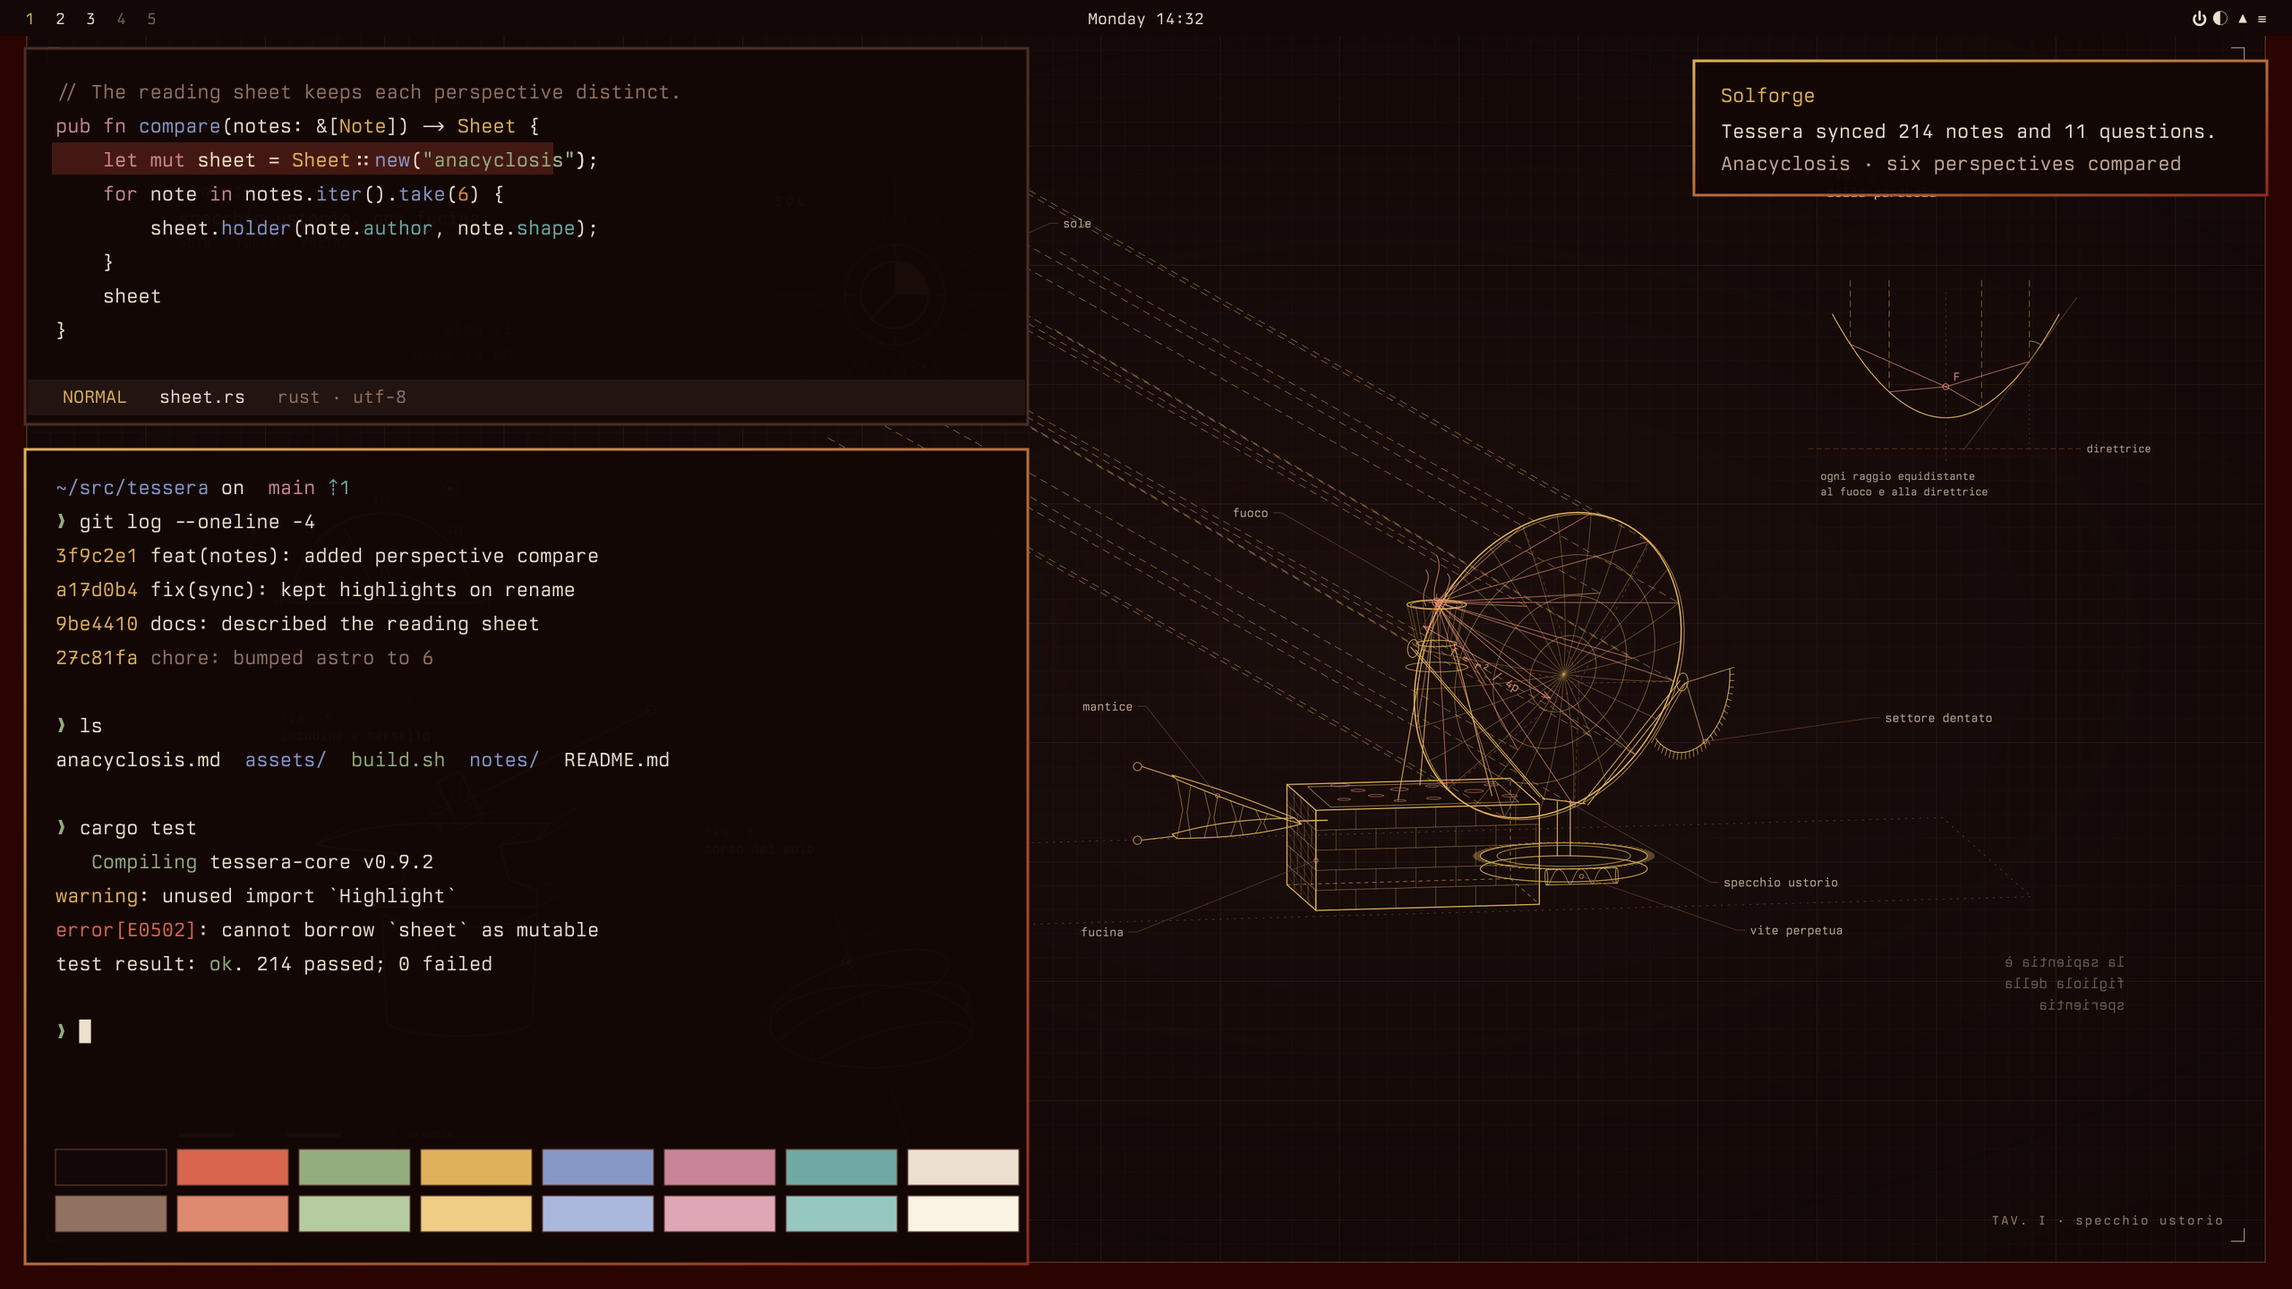
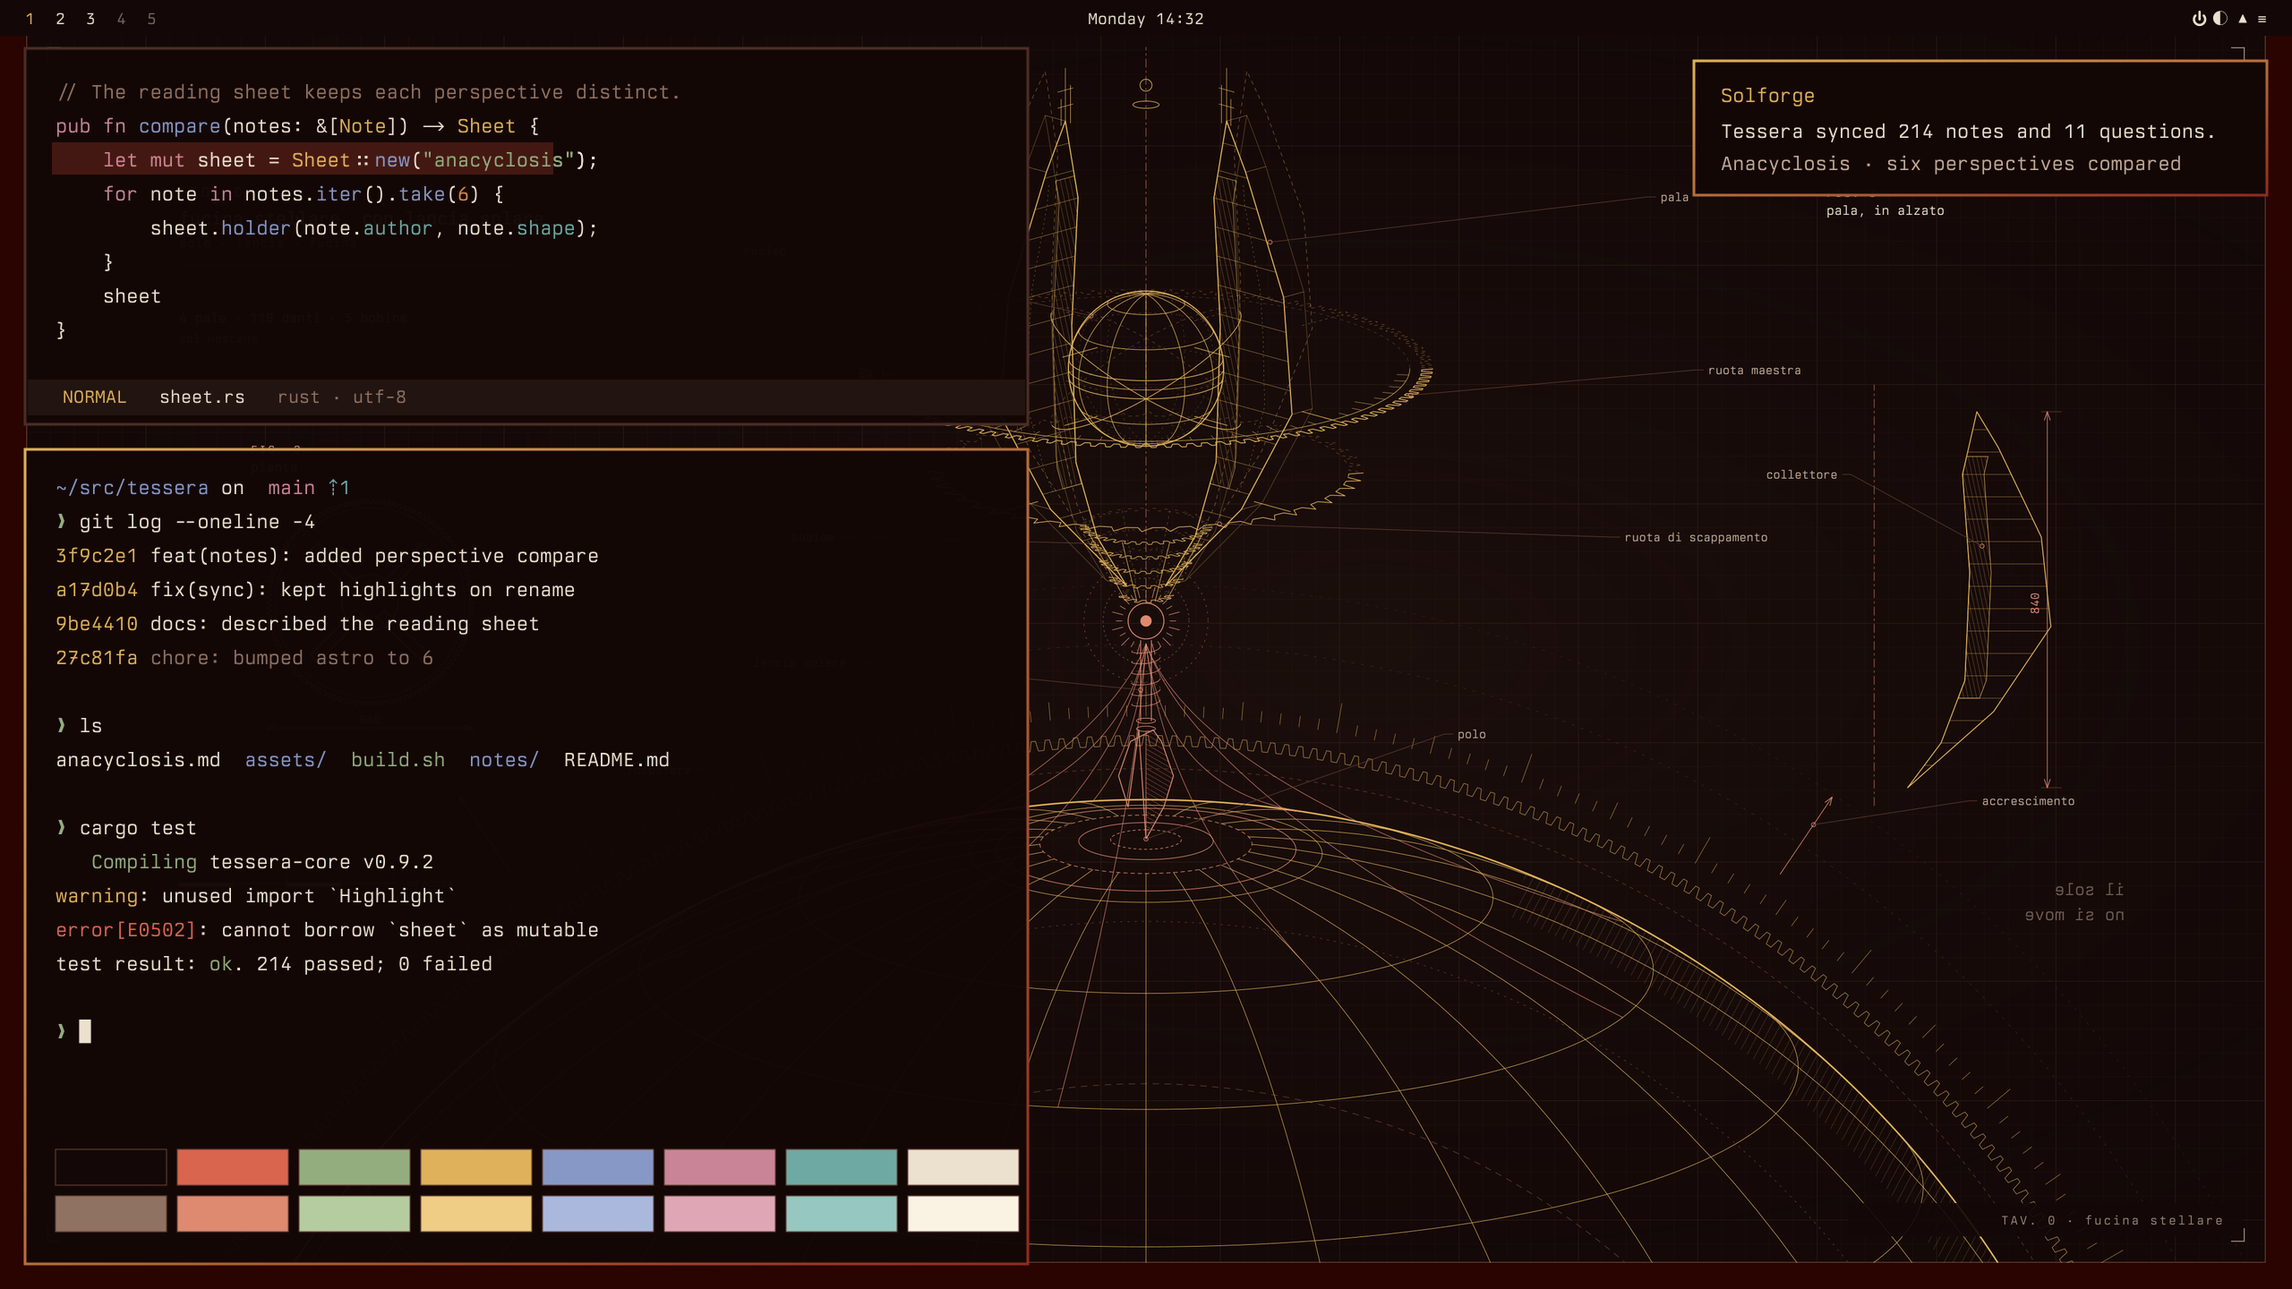
feat(backgrounds): added star forge plate as the first background
- Drew a wireframe star forge on the sun's axis driving a solar lance.
- Set the sun's cap across the bottom third with a toothed limb ring.
- Added sphere graticule and hidden-run helpers for wire spheres.
- Made the forge plate the theme preview and default background.

diff --git a/drawings.py b/drawings.py
@@ -1250,7 +1250,307 @@ def plate_oculus(s: Sheet):
     s.scale_bar(300, 1900)
 
 
+# ---------------------------------------------------------------- plate 0: fucina stellare
+
+def split_runs(pts, front):
+    """Split a 3D polyline into the runs where `front(p)` holds and the runs where it does not."""
+    near, far, cur, side = [], [], [], None
+    for p in pts:
+        here = front(p)
+        if side is not None and here != side:
+            (near if side else far).append(cur + [p])
+            cur = []
+        cur.append(p)
+        side = here
+    if len(cur) > 1:
+        (near if side else far).append(cur)
+    return near, far
+
+
+def draw_runs(s: Sheet, cam, pts, front, role="gilt", width=1.2, far=("5 7", 0.4), opacity=1.0):
+    """A 3D polyline, solid where visible and dashed (or dropped, with far=None) where hidden."""
+    near, back = split_runs(pts, front)
+    for run in near:
+        s.poly3(cam, run, role, width, None, opacity)
+    if far:
+        for run in back:
+            s.poly3(cam, run, role, width * 0.7, far[0], far[1] * opacity)
+
+
+def facing_from(cam, c):
+    """Visibility test for points on a sphere centred at c: the hemisphere toward the viewer."""
+    return lambda p: cam.rot(sub(p, c))[2] >= 0
+
+
+def wire_sphere(s: Sheet, cam, c, r, lats, lons, role="gilt", width=1.0, far=None, lat_max=90):
+    """Latitude and longitude lines on a sphere; the far side is dropped unless `far` is given."""
+    front = facing_from(cam, c)
+    for a in lats:
+        t = math.radians(a)
+        draw_runs(s, cam, circle3d(add(c, (0, r * math.sin(t), 0)), (0, 1, 0), r * math.cos(t), 180), front, role, width, far)
+    for lon in lons:
+        g = math.radians(lon)
+        pts = [add(c, (r * math.cos(math.radians(a)) * math.cos(g), r * math.sin(math.radians(a)),
+                       r * math.cos(math.radians(a)) * math.sin(g))) for a in range(-90, lat_max + 1, 2)]
+        draw_runs(s, cam, pts, front, role, width, far)
+
+
+def plate_fucina(s: Sheet):
+    """A star forge of vanes and wheels, driving a solar lance into the sun it is building."""
+    R = 1700
+    cam = Cam(1920, 3040, 1.0, yaw=0, pitch=16)
+    sx, sy = cam((0, 0, 0))
+
+    def outside(p):
+        """Points off the sun's surface: hidden only when the sun stands between them and the eye."""
+        q = cam.rot(p)
+        return q[0] ** 2 + q[1] ** 2 >= R * R or q[2] >= 0
+
+    def flat(pts2, y):
+        return [(x, y, z) for x, z in pts2]
+
+    def axis_front(y):
+        return lambda p: cam.rot((p[0], 0, p[2]))[2] >= 0
+
+    # The sun, clipped to the sheet: growth shells, a toothed ring at its limb, corona ticks.
+    i = s.inset
+    cid = s.clip(f'<rect x="{i}" y="{i}" width="{W - 2 * i}" height="{H - 2 * i}"/>')
+    s.add(f'<g clip-path="url(#{cid})">')
+    for dr, op in ((360, 0.3), (260, 0.45)):
+        s.circle(sx, sy, R + dr, "line", 1.0, "4 12", op)
+    s.path(gear_path(sx, sy, 480, 7.5, 0.0)[0], "gilt", 1.0, None, 0.75)
+    s.circle(sx, sy, R + 52, "line", 0.9, "6 8")
+    for k in range(360):
+        a = math.radians(k)
+        r1 = R + (190 if k % 10 == 0 else 170 if k % 5 == 0 else 158)
+        s.line(sx + (R + 140) * math.cos(a), sy + (R + 140) * math.sin(a), sx + r1 * math.cos(a), sy + r1 * math.sin(a),
+               "gilt", 0.9, None, 0.7)
+    for ang in (236, 304):
+        a = math.radians(ang)
+        ux, uy = math.cos(a), math.sin(a)
+        s.line(sx + (R + 200) * ux, sy + (R + 200) * uy, sx + (R + 356) * ux, sy + (R + 356) * uy, "rubric", 1.1)
+        s.arrow(sx + (R + 356) * ux, sy + (R + 356) * uy, ux, uy)
+
+    # Limb shading, hatched as Leonardo shaded a sphere's turning edge.
+    for a0, a1, hang in ((196, 248, 62), (292, 344, 118)):
+        outer = [(sx + R * math.cos(math.radians(a)), sy + R * math.sin(math.radians(a))) for a in range(a0, a1 + 1, 2)]
+        inner = [(sx + R * 0.955 * math.cos(math.radians(a)), sy + R * 0.955 * math.sin(math.radians(a)))
+                 for a in range(a1, a0 - 1, -2)]
+        s.hatch(outer + inner, hang, 13, "gilt", 0.8, 0.28)
+
+    # Inner shells seen through the surface, the graticule, and ripples where the lance strikes.
+    s.circle(sx, sy, R * 0.72, "line", 1.0, "10 10")
+    s.circle(sx, sy, R * 0.88, "line", 0.9, "3 9")
+    wire_sphere(s, cam, (0, 0, 0), R, range(30, 81, 10), range(0, 360, 15), "gilt", 0.9, lat_max=84)
+    for a, dash in ((81.5, None), (84, "6 6"), (86.2, None), (88, "4 5")):
+        t = math.radians(a)
+        s.poly3(cam, circle3d((0, R * math.sin(t), 0), (0, 1, 0), R * math.cos(t), 120), "rubric", 1.2, dash, 0.9)
+    s.circle(sx, sy, R, "gilt", 2.6)
+    s.add("</g>")
+
+    # The forge stands on the sun's axis: four vanes, a core sphere, two wheels, a coiled nozzle.
+    Ye, Yc, Yw, rc = 2080, 2520, 2340, 130
+    RW, RX = 472, 340
+    C = (0.0, float(Yc), 0.0)
+    OUT = [(70, 2160), (250, 2330), (370, 2520), (350, 2720), (260, 2920), (215, 3000)]
+    INN = [(70, 2160), (140, 2260), (190, 2400), (200, 2640), (185, 2860), (215, 3000)]
+    Y0, Y1, TIP = OUT[0][1], OUT[-1][1], OUT[-1][0]
+    STRIP, PANELS = list(range(2360, 2901, 20)), range(Y0 + 50, Y1 - 9, 50)
+    profile = OUT + INN[::-1][1:-1]
+
+    def along(prof, y):
+        for (r0, y0), (r1, y1) in zip(prof, prof[1:]):
+            if y0 <= y <= y1:
+                return r0 + (r1 - r0) * (y - y0) / (y1 - y0)
+        raise ValueError(y)
+
+    thetas = [math.radians(a) for a in (45, 135, 225, 315)]
+
+    def radial(theta):
+        return (math.cos(theta), 0.0, math.sin(theta)), (-math.sin(theta), 0.0, math.cos(theta))
+
+    def vane(theta, front):
+        d, t = radial(theta)
+        side = 1 if cam.facing(t) else -1
+
+        def P(r, y, k=side):
+            return add(add(mul(d, r), mul(t, 24 * k)), (0.0, y, 0.0))
+
+        face = [P(r, y) for r, y in profile]
+        if not front:
+            s.poly3(cam, face, "gilt", 1.0, "6 7", 0.5, closed=True)
+            return
+        s.poly3(cam, [P(r, y, -side) for r, y in profile], "gilt", 0.8, None, 0.45, closed=True)
+        for r, y in OUT:
+            s.line3(cam, P(r, y), P(r, y, -side), "gilt", 0.8, None, 0.6)
+        s.poly3(cam, face, "gilt", 1.8, closed=True)
+        strip = [P(along(INN, y), y) for y in STRIP] + [P(along(INN, y) + 45, y) for y in reversed(STRIP)]
+        s.hatch([cam(q) for q in strip], 78, 8, "gilt", 0.7, 0.45)
+        s.poly3(cam, strip, "gilt", 0.9, None, 0.8, closed=True)
+        for y in PANELS:
+            s.line3(cam, P(along(INN, y), y), P(along(OUT, y), y), "gilt", 0.8, None, 0.65)
+        s.poly3(cam, [P((along(INN, y) + 45 + along(OUT, y)) / 2, y) for y in STRIP], "gilt", 0.7, "2 6", 0.7)
+        for dr, h in ((-12, 60), (0, 92), (10, 40)):
+            s.line3(cam, P(TIP + dr, Y1 - 6), P(TIP + dr, Y1 + h), "gilt", 0.9)
+        for h in (26, 54):
+            s.line3(cam, P(TIP - 18, Y1 + h), P(TIP + 18, Y1 + h), "gilt", 0.8)
+
+    for th in thetas:
+        if not cam.facing(radial(th)[0]):
+            vane(th, False)
+
+    # Mast and finial.
+    s.line3(cam, (0, Ye + 30, 0), (0, Y1 + 80, 0), "rubric", 1.0, "14 6 3 6", 0.8)
+    s.poly3(cam, circle3d((0, Y1 - 20, 0), (0, 1, 0), 22, 36), "gilt", 1.1)
+    s.circle(*cam((0, Y1 + 14, 0)), 10, "gilt", 1.2)
+
+    # Core sphere with its seam and two armillary rings.
+    wire_sphere(s, cam, C, rc, range(-60, 61, 30), range(0, 360, 30), "gilt", 1.0, far=("3 6", 0.35))
+    core_front = facing_from(cam, C)
+    for a in (-7, 7):
+        t = math.radians(a)
+        draw_runs(s, cam, circle3d(add(C, (0, rc * math.sin(t), 0)), (0, 1, 0), rc * math.cos(t), 120), core_front,
+                  "gilt", 1.3, None)
+    s.circle(*cam(C), rc, "gilt", 1.8)
+    for n in ((0.5, 0.866, 0.0), (-0.5, 0.866, 0.0)):
+        draw_runs(s, cam, circle3d(C, n, 184, 120), core_front, "gilt", 1.2)
+
+    # Struts from core to vanes, and from vanes out to the two wheels.
+    for th in thetas:
+        d, _ = radial(th)
+        front = cam.facing(d)
+        style = ("gilt", 1.2, None, 0.9) if front else ("gilt", 0.8, "4 6", 0.45)
+        for y in (Yc - 60, Yc + 60):
+            r0 = math.sqrt(rc * rc - (y - Yc) ** 2)
+            s.line3(cam, add(mul(d, r0), (0, y, 0)), add(mul(d, along(INN, y)), (0, y, 0)), *style)
+        s.line3(cam, add(mul(d, along(OUT, Yc)), C), add(mul(d, RW - 10), C), *style)
+        s.line3(cam, add(mul(d, along(OUT, Yw)), (0, Yw, 0)), add(mul(d, RX + 2), (0, Yw, 0)), *style)
+
+    # Crown wheel at the core, with a graduated rim; an escape wheel below it.
+    draw_runs(s, cam, flat(gear_points(0, 0, RW // 4, 8, 0.0), Yc), axis_front(Yc), "gilt", 1.4)
+    rim = RW - 30
+    draw_runs(s, cam, flat([(rim * math.cos(a), rim * math.sin(a)) for a in [k * math.pi / 90 for k in range(181)]], Yc),
+              axis_front(Yc), "gilt", 0.9)
+    for k in range(72):
+        a = k * math.pi / 36
+        c, sn = math.cos(a), math.sin(a)
+        r0 = rim - (38 if k % 6 == 0 else 20)
+        if cam.facing((c, 0, sn)):
+            s.line3(cam, (r0 * c, Yc, r0 * sn), (rim * c, Yc, rim * sn), "gilt", 0.8, None, 0.8)
+    draw_runs(s, cam, flat(escape_points(0, 0, RX, 48, 24, 0.1), Yw), axis_front(Yw), "gilt", 1.2)
+
+    # Nozzle: five toothed coils narrowing to the emitter, caged by eight rods.
+    coils = [(2125 + k * 30, 40 + k * 16) for k in range(5)]
+    for k, (y, r) in enumerate(coils):
+        teeth = max(12, int(r / 3))
+        draw_runs(s, cam, flat(gear_points(0, 0, teeth, 2 * r / teeth, k * 0.1), y), axis_front(y), "gilt", 1.1)
+    for k in range(8):
+        a = k * math.pi / 4 + math.pi / 8
+        c, sn = math.cos(a), math.sin(a)
+        rod = [(r * c, y, r * sn) for y, r in coils]
+        if cam.facing((c, 0, sn)):
+            s.poly3(cam, rod, "gilt", 1.0)
+        else:
+            s.poly3(cam, rod, "gilt", 0.7, "4 6", 0.45)
+
+    for th in thetas:
+        if cam.facing(radial(th)[0]):
+            vane(th, True)
+
+    # Emitter and the solar lance: a coiled shaft with a leaf blade, striking the pole.
+    ex, ey = cam((0, Ye, 0))
+    s.circle(ex, ey, 30, "rubric", 1.6)
+    s.circle(ex, ey, 9, "rubric", 1.0, fill=s.p["rubric"])
+    for r, dash in ((72, "2 6"), (104, "2 9")):
+        s.circle(ex, ey, r, "rubric", 1.0, dash, 0.6)
+    for k in range(24):
+        a = k * math.pi / 12
+        s.line(ex + 40 * math.cos(a), ey + 40 * math.sin(a), ex + (58 if k % 2 else 50) * math.cos(a),
+               ey + (58 if k % 2 else 50) * math.sin(a), "rubric", 1.0)
+    head = [(0, R), (30, R + 56), (46, R + 110), (26, R + 170), (12, R + 190)]
+    leaf = head + [(-x, y) for x, y in reversed(head[1:-1])] + [(-12, R + 190)]
+    s.poly3(cam, [(x, y, 0) for x, y in leaf], "rubric", 1.6, closed=True)
+    s.line3(cam, (0, R + 6, 0), (0, R + 188, 0), "rubric", 0.9)
+    s.hatch([cam((x, y, 0)) for x, y in head + [(0, R + 190)]], 30, 7, "rubric", 0.8, 0.5)
+    for y in (R + 192, R + 206):
+        s.poly3(cam, circle3d((0, y, 0), (0, 1, 0), 16, 24), "rubric", 1.1)
+    for x in (-9, 9):
+        s.line3(cam, (x, R + 206, 0), (x, Ye - 34, 0), "rubric", 1.4)
+    y0, y1, turns = R + 225, Ye - 44, 6
+    helix = [(24 * math.cos(turns * 2 * math.pi * k / 360), y1 - (y1 - y0) * k / 360,
+              24 * math.sin(turns * 2 * math.pi * k / 360)) for k in range(361)]
+    draw_runs(s, cam, helix, lambda p: p[2] >= 0, "rubric", 1.0, ("3 5", 0.5))
+
+    # Plasma drawn down from the nozzle and laid along the surface.
+    for k in range(9):
+        lon = math.radians(20 + k * 40)
+        lat = math.radians(72 if k % 2 else 60)
+        p2 = (R * math.cos(lat) * math.cos(lon), R * math.sin(lat), R * math.cos(lat) * math.sin(lon))
+        p0, p1 = (0.0, Ye - 40.0, 0.0), (p2[0] * 0.12, R + 70.0, p2[2] * 0.12)
+        curve = [add(add(mul(p0, (1 - t) ** 2), mul(p1, 2 * t * (1 - t))), mul(p2, t * t))
+                 for t in [j / 48 for j in range(49)]]
+        draw_runs(s, cam, curve, outside, "rubric", 1.1, ("5 7", 0.45), 0.8)
+
+    # Names.
+    s.leader(*cam(add(C, (-92, 92, 0))), 1340, 420, "nucleo")
+    d45 = radial(math.radians(45))[0]
+    s.leader(*cam(add(mul(d45, along(OUT, 2800) - 20), (0, 2800, 0))), 2760, 330, "pala")
+    s.leader(*cam((RW * math.cos(0.35), Yc, RW * math.sin(0.35))), 2840, 620, "ruota maestra")
+    s.leader(*cam((RX * math.cos(1.2), Yw, RX * math.sin(1.2))), 2700, 900, "ruota di scappamento")
+    s.leader(*cam((-coils[3][1], coils[3][0], 0)), 1420, 900, "bobine")
+    s.leader(*cam((-9, 1960, 0)), 1440, 1110, "lancia solare")
+    s.leader(*cam((0, R, 0)), 2420, 1230, "polo")
+    lx, ly = sx + R * math.cos(math.radians(250)), sy + R * math.sin(math.radians(250))
+    s.leader(lx, ly, 1180, 1290, "fotosfera")
+    ax_, ay_ = sx + (R + 300) * math.cos(math.radians(304)), sy + (R + 300) * math.sin(math.radians(304))
+    s.leader(ax_, ay_, ax_ + 260, ay_ - 40, "accrescimento")
+
+    # FIG. 2: the forge in plan.
+    k, px, py = 0.36, 620, 1010
+    s.fig(420, 760, 2, "pianta")
+    s.path(gear_path(px, py, RW // 4, 8 * k, 0.0)[0], "gilt", 1.2)
+    s.circle(px, py, rim * k, "gilt", 0.8)
+    s.poly(escape_points(px, py, RX * k, 48, 24 * k, 0.1), "gilt", 0.8, "4 5", 0.6, closed=True)
+    s.circle(px, py, rc * k, "gilt", 1.4)
+    for th in thetas:
+        (dx, _, dz), (tx, _, tz) = radial(th)
+        rmax = max(r for r, _ in OUT)
+        rect = [(px + dx * r + tx * h, py + dz * r + tz * h) for r, h in ((70 * k, -24 * k), (rmax * k, -24 * k),
+                                                                          (rmax * k, 24 * k), (70 * k, 24 * k))]
+        s.poly(rect, "gilt", 1.3, closed=True)
+        s.hatch(rect, math.degrees(th) + 90, 6, "gilt", 0.6, 0.4)
+    s.crosshair(px, py, 230)
+    s.dimension(px - (RW + 8) * k, py + 230, px + (RW + 8) * k, py + 230, str(2 * (RW + 8)), offset=-20)
+
+    # FIG. 3: one vane in elevation.
+    s.fig(3060, 330, 3, "pala, in alzato")
+
+    def el(r, y):
+        return 3140 + r * 0.8, 1320 - (y - Y0) * 0.75
+
+    s.line(*el(0, Y0 - 40), *el(0, Y1 + 60), "rubric", 1.0, "14 6 3 6", 0.8)
+    s.poly([el(r, y) for r, y in profile], "gilt", 1.6, closed=True)
+    strip = [el(along(INN, y), y) for y in STRIP] + [el(along(INN, y) + 45, y) for y in reversed(STRIP)]
+    s.hatch(strip, 78, 7, "gilt", 0.7, 0.45)
+    s.poly(strip, "gilt", 0.9, closed=True)
+    for y in PANELS:
+        s.line(*el(along(INN, y), y), *el(along(OUT, y), y), "gilt", 0.8, None, 0.65)
+    s.dimension(*el(400, Y0), *el(400, Y1), str(Y1 - Y0), offset=-30)
+    sp_ = el(along(INN, 2700) + 30, 2700)
+    s.leader(*sp_, sp_[0] - 220, sp_[1] - 120, "collettore")
+
+    s.title_block("0", "fucina stellare, con lancia solare", "sole · lancia · fucina")
+    s.text(300, 540, f"{len(thetas)} pale · {RW // 4} denti · {len(coils)} bobine", "ink", 22)
+    s.text(300, 574, "sol nascens", "muted", 20)
+    s.notes(3560, 1500, QUOTES["sol"], 28, 42)
+    s.scale_bar(300, 1480)
+    # The plate's footer sits over the sun's corona; give it a clear patch of sheet.
+    s.add(f'<rect x="{W - s.inset - 700}" y="{H - s.inset - 100}" width="660" height="56" fill="{s.p["sheet"]}" '
+          'fill-opacity="0.9"/>')
+
+
 PLATES = [
+    ("00-fucina", "TAV. 0", "fucina stellare", plate_fucina),
     ("01-specchio", "TAV. I", "specchio ustorio", plate_specchio),
     ("02-orologio", "TAV. II", "orologio", plate_orologio),
     ("03-vacui", "TAV. XXVI", "corpi vacui", plate_vacui),

diff --git a/README.md b/README.md
@@ -34,6 +34,7 @@ rooms are true wireframes rather than flat outlines.
 
 | File | Main figure | Margin studies |
 | --- | --- | --- |
+| `00-fucina.png` | A star forge on the sun's axis: four vanes round a core sphere, a crown wheel and an escape wheel, and a coiled nozzle driving a solar lance into the pole of a half-built sun | The forge in plan, one vane in elevation |
 | `01-specchio.png` | A burning mirror on a worm-driven mount, gathering sunlight into a crucible over a brick forge | Parabola construction, anvil and hammer, gnomon, the sun's course over Florence |
 | `02-orologio.png` | A weight-driven clock train between two plates, with anchor escapement and pendulum | Meshing teeth enlarged, lantern pinion, verge and foliot |
 | `03-vacui.png` | The hollow rhombicuboctahedron from Pacioli's *De divina proportione* | Six hollow solids on rails, the golden spiral, the cube unfolded |
